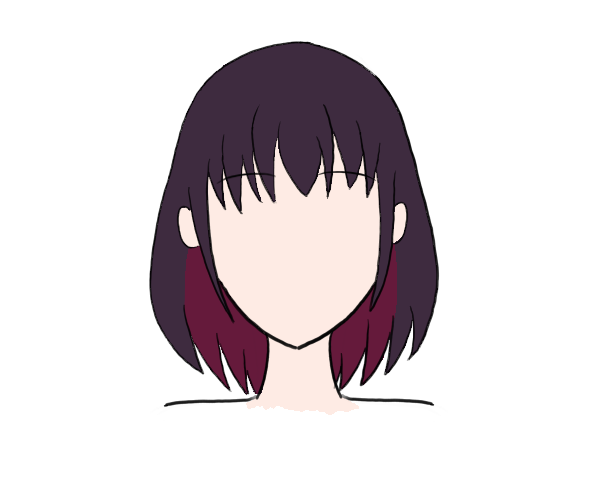
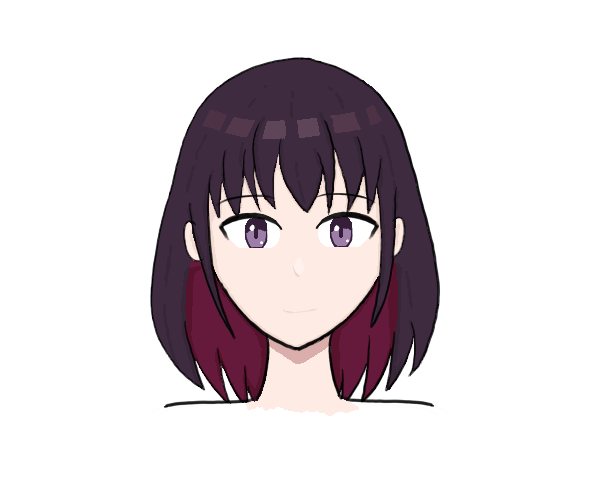
update latest art
update the image to later WIP and change description for it

Changed region(s): [[0.24, 0.06, 0.75, 0.81]]

diff --git a/art.html b/art.html
@@ -40,7 +40,9 @@
             <h2 class="purple">> 2025:</h2><br>
             <br><h3>January:</h3><br>
             <img src="images/myart/2501/OCface.png" width="500"><br>
-            > I really want to finish the face on her, but man faces are hard!!! after a few attempts I decided to take a break and I'm posting it here for now.<br><br>
+            > I plan on eventually making this into a full reference image for future commisions, but man is this hard.
+	    I currently have the body already drawn but something feels off and I can't put my finger on it. I will either
+	    figure it out or replace this with the full reference!<br><br>
             
             <br><br>
             <h2 class="purple">> 2024:</h2><br>
